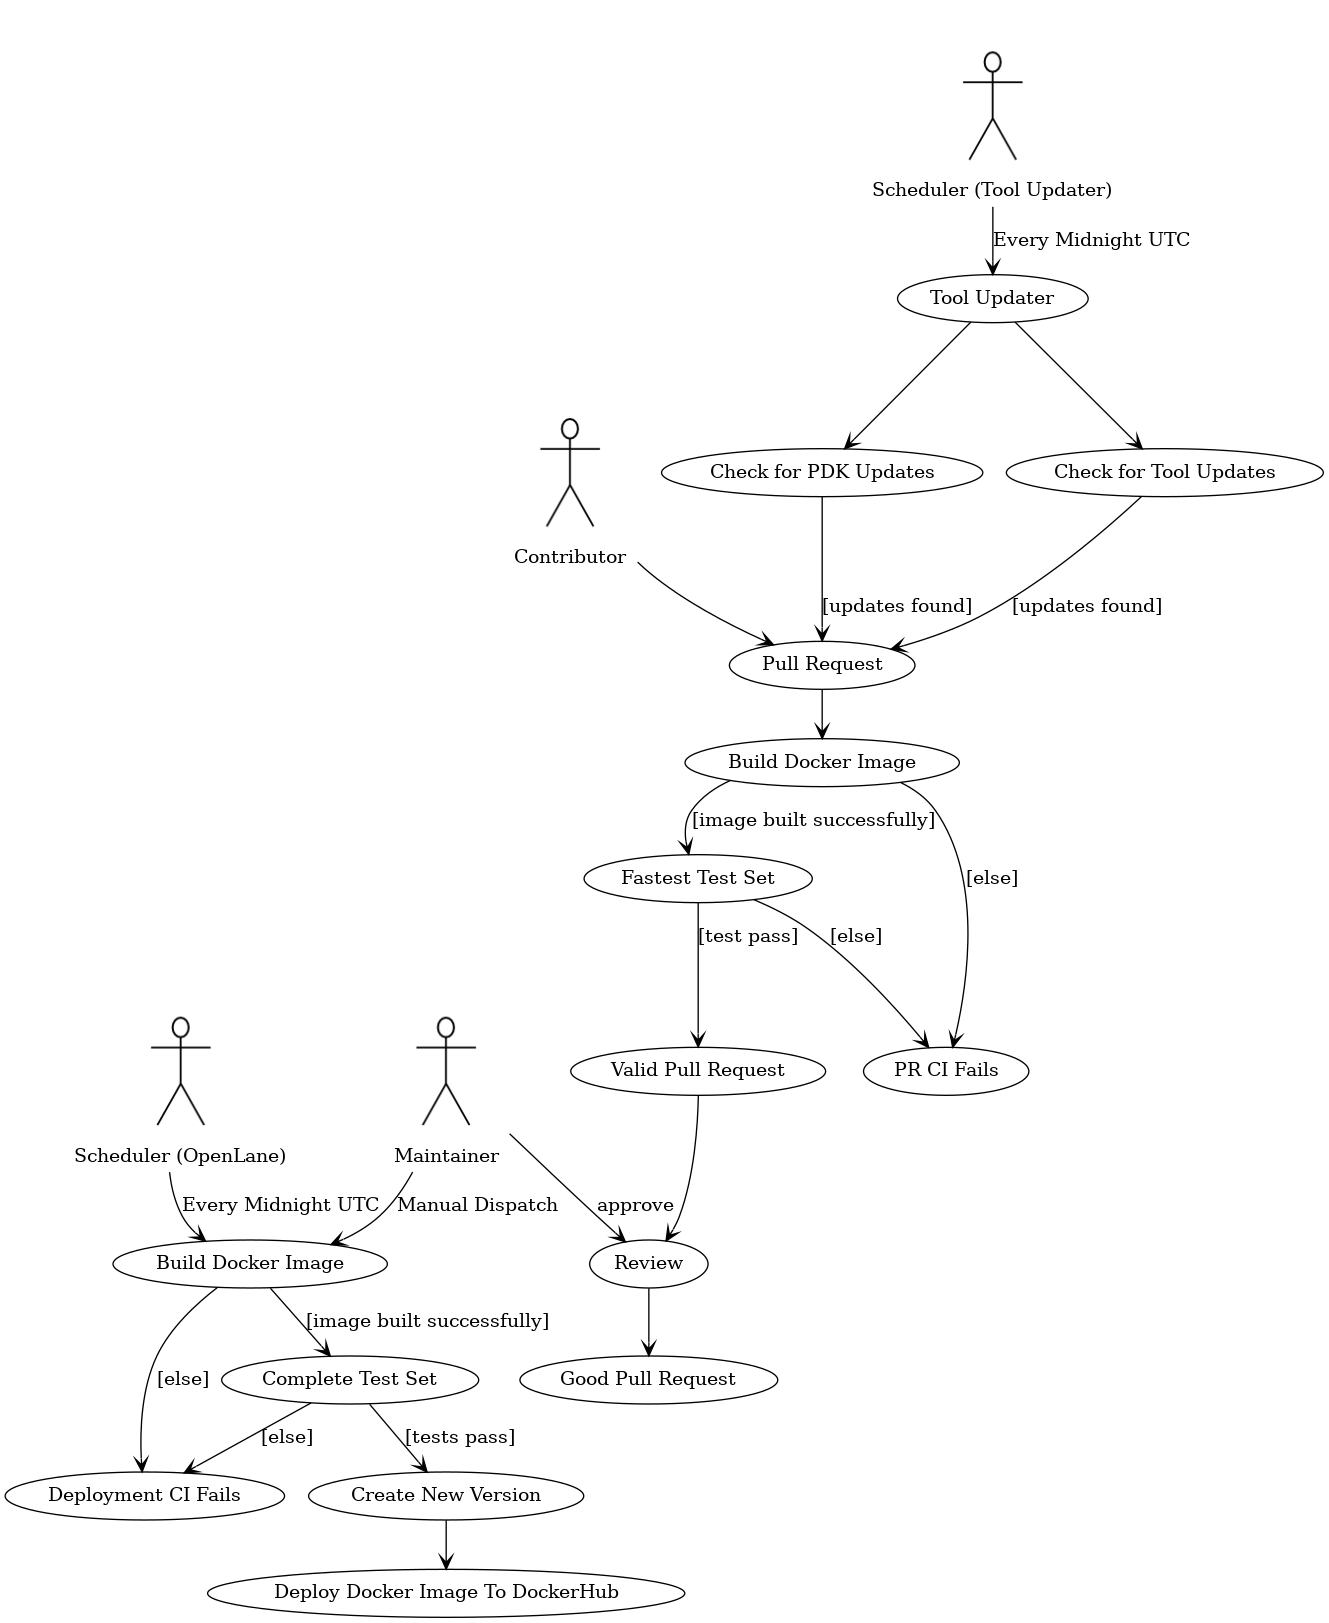
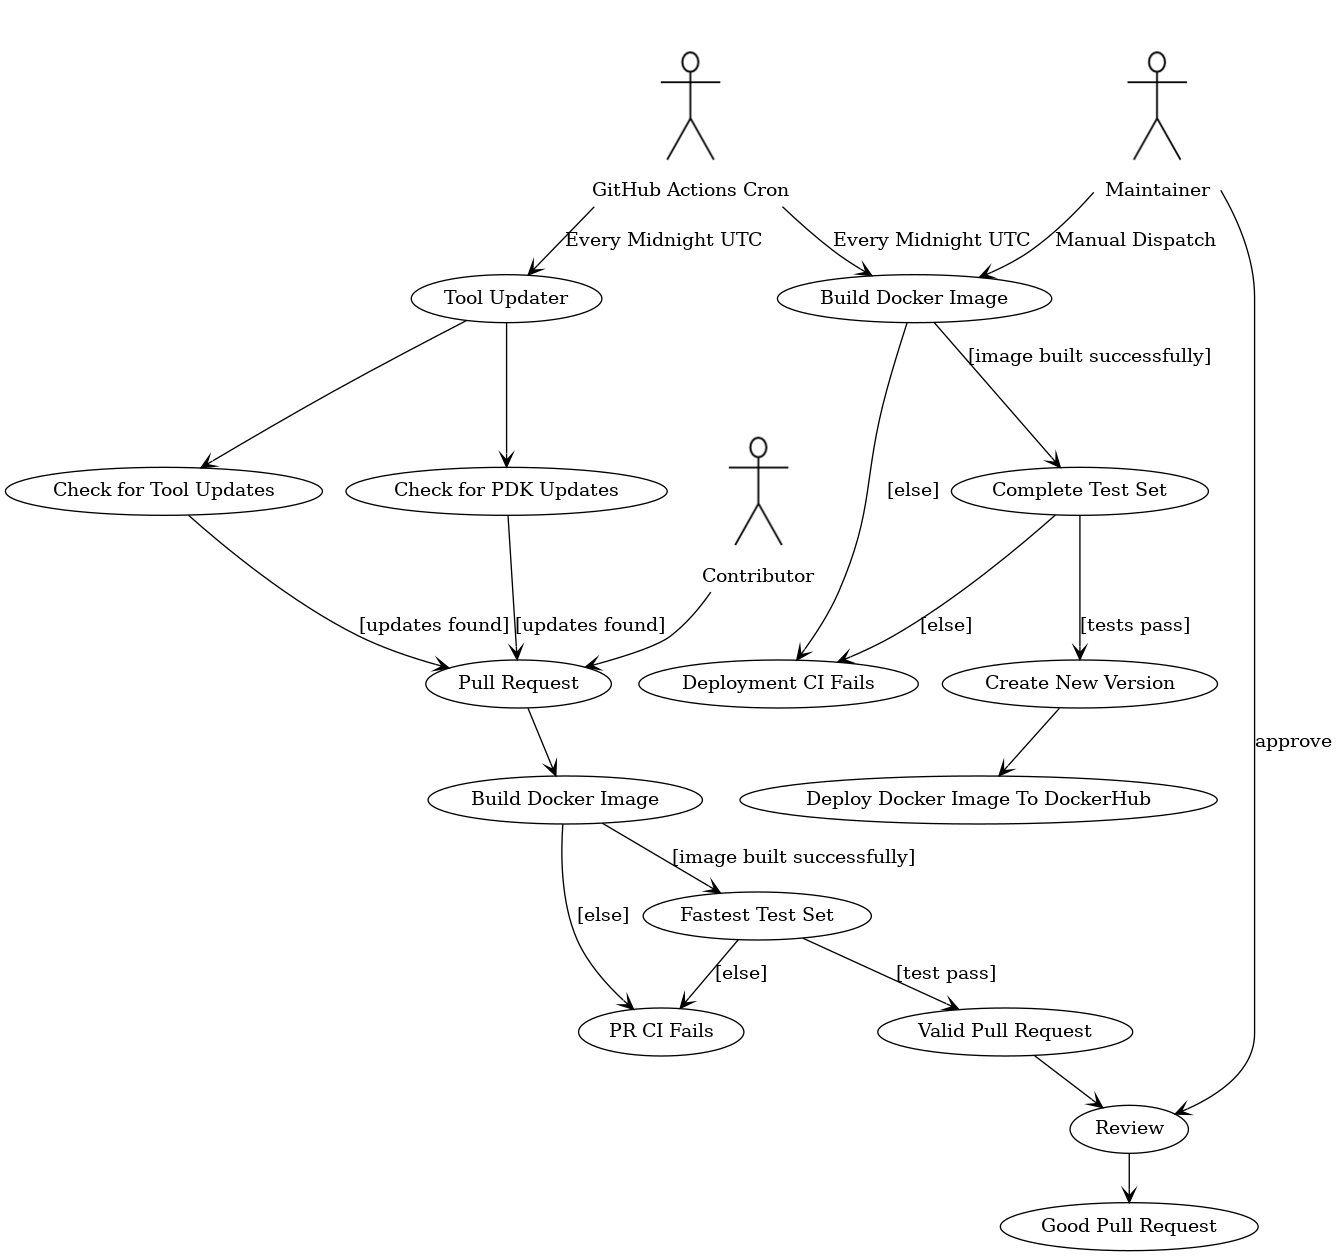
Move Tool Updater Back To This Repo

diff --git a/.github/workflow-documentation.md b/.github/workflow-documentation.md
@@ -3,15 +3,13 @@ There are two primary flows: the pull request flow and the deployment flow.
 
 The deployment flow occurs on a daily basis. The PR flow happens whenever someone creates a new Pull Request. PRs can be created by contributors or by an automated tool updater that runs on a schedule.
 
-The tool updater is maintained in a separate repository: https://github.com/openlane-bot/openlane-tool-updater by the bot that creates the PRs.
-
 ![A Diagram Of The Flow](./diagrams/flow.png)
 * A maintainer cannot review their own code, but they can merge it after a review by another maintainer.
 
 # Required Secrets
 Repository secrets are used to protect certain credentials, but also as repository-dependent parameters for the CI.
 
-## OpenLane CI
+## CI
 
 | Secret      | Description                                                   |
 |---------------|---------------------------------------------------------------|
@@ -23,6 +21,6 @@ Repository secrets are used to protect certain credentials, but also as reposito
 
 | Secret      | Description                                                   |
 |---------------|---------------------------------------------------------------|
-| `OPENLANE_REPO`  | The URL for the GitHub repo for OpenLane. |
-| `OPENLANE_BRANCH`  | The main branch for OpenLane. |
-| `MY_TOKEN`  | A user Github with push access to the repository. Despite Github Actions internally providing GITHUB_TOKEN for the action to use. pushing/creating a branch with this token will prevent Github Actions from running on the created branch/pushed commit/submitted PR. This is a policy by Github Actions to prevent circular calls as a general rule while still providing a way for the user to do it if they know what they are doing. |
+| `MAIN_BRANCH`  | The main branch for OpenLane. Format: `main`|`master`|`etc` |
+| `FORK_NAME` | A fork to push branches for tool updates to. Format `bot-account/OpenLane`  |
+| `MY_TOKEN`  | A token for the bot account that owns the fork. |
